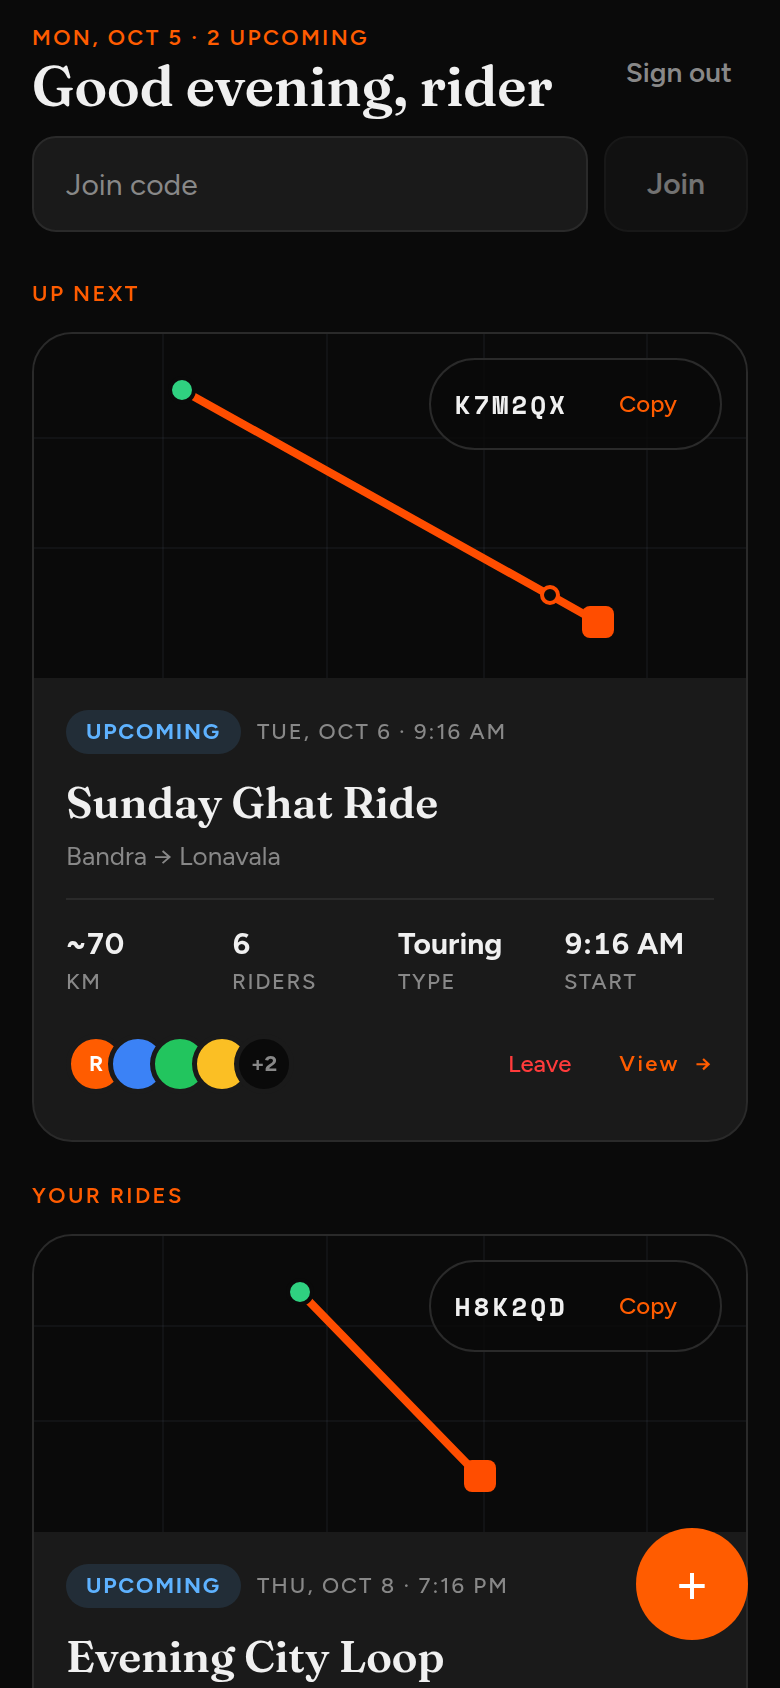
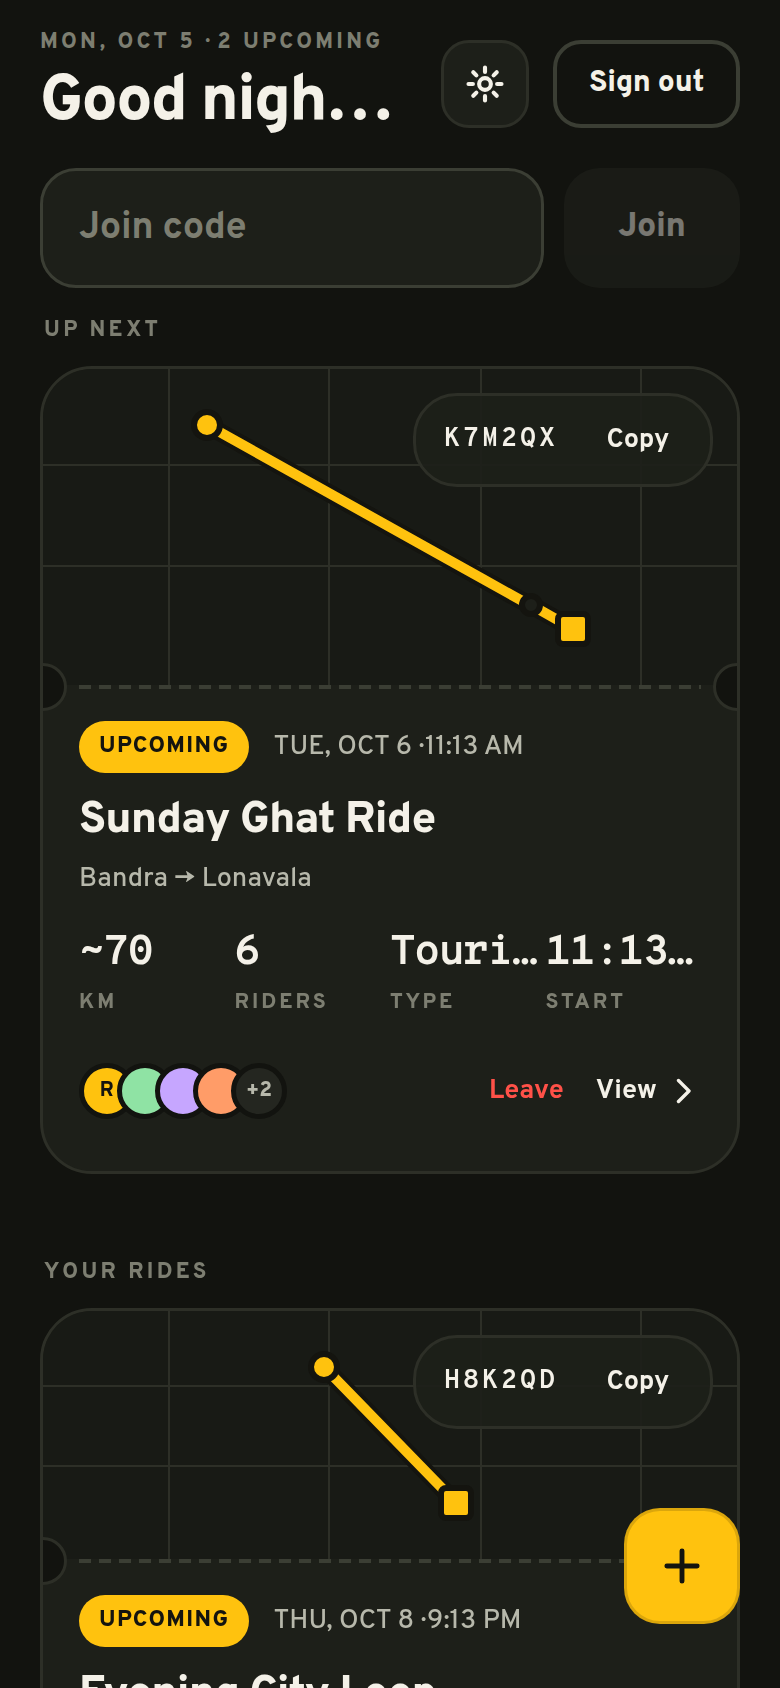
docs: regenerate screenshots for the new design, in all four themes
WHAT: the render harness (react-native-web) now takes a theme and mode in the URL, uses
Overpass, stubs react-native-svg and draws the avatar marker; screenshots/ holds every
scene in Demo/dark plus themes/<theme>-<mode>/ for Rides, live ride, route details and
Settings. New scenes: report-hazard sheet and Settings.
WHY: the old images showed the previous design. They are still not device screenshots
(map tiles are a placeholder, data is sample data); the README says exactly what is and
isn't real.

diff --git a/app/scripts/screenshots/scenes.tsx b/app/scripts/screenshots/scenes.tsx
@@ -35,7 +35,12 @@ import FamilyScreen from '@app/screens/FamilyScreen';
 import MapScreen from '@app/screens/map/MapScreen';
 import CreateRideModal from '@app/components/CreateRideModal';
 import SosModal from '@app/components/SosModal';
-import SignalMenu from '@app/components/SignalMenu';
+import SignalSheet from '@app/components/SignalSheet';
+import HazardSheet from '@app/components/HazardSheet';
+import RouteSheet from '@app/components/RouteSheet';
+import SettingsScreen from '@app/screens/SettingsScreen';
+import { ThemeContext, buildTheme, useTheme } from '@app/theme/ThemeProvider';
+import { THEMES, ThemeId, Scheme } from '@app/theme/palettes';
 import ToastContainer from '@app/components/ToastContainer';
 import { MainTabBar } from '@app/navigation/MainTabNavigator';
 
@@ -73,16 +78,17 @@ function seedRide() {
     currentLocation: loc, lastValidLocation: loc,
   });
   const mk = (id: string, lat: number, lng: number) => ({ rider_id: id, group_id: 'g1', timestamp_hlc: `${Date.now()}:0`, lat, lng, speed_mps: 11, heading_deg: 90, spoof_flag: false, nis_score: 0.5, accuracy_m: 8 });
-  ['u2', 'u3', 'u4'].forEach((id, i) => useRidersStore.getState().upsertRider(mk(id, 19.0 - i * 0.01, 72.9 + i * 0.01)));
+  [0.0009, -0.002, 0.0034].forEach((d, i) => useRidersStore.getState().upsertRider(mk(`u${i + 2}`, 19.0 + d, 72.9)));
 }
 
 const ROUTE = { route_id: 'r1', path_points: [[19.0596, 72.8295], [19.0, 72.9], [18.9, 73.1], [18.79, 73.34], [18.7546, 73.4062]], distance_km: 84.2, eta_minutes: 107, safety_score: 0.82, recalculated_at_hlc: '1:0' };
 // In the app the routing server answers; in this harness there is none, so apply its reply.
 const reseedRoute = () => setTimeout(() => useRouteStore.setState({ route: ROUTE }), 700);
 const nav = { navigate() {}, goBack() {}, replace() {}, reset() {}, getParent: () => ({ goBack() {} }) };
-const Frame = ({ children, bg = '#0A0A0A', height = 844 }: any) => (
-  <View style={{ width: 390, height, backgroundColor: bg, overflow: 'hidden' }}>{children}</View>
-);
+const Frame = ({ children, bg, height = 844 }: any) => {
+  const { colors } = useTheme();
+  return <View style={{ width: 390, height, backgroundColor: bg ?? colors.bg, overflow: 'hidden' }}>{children}</View>;
+};
 // A tab screen laid out like the navigator does: content above, bar below (not overlapping).
 const TabScreen = ({ children, idx }: any) => (
   <Frame><View style={{ flex: 1 }}>{children}</View><MainTabBar {...tabState(idx)} /></Frame>
@@ -115,12 +121,21 @@ const scenes: Record<string, () => React.ReactElement> = {
   history: () => { seedRide(); return <TabScreen idx={5}><HistoryScreen navigation={nav} /></TabScreen>; },
   voice: () => { seedRide(); return <TabScreen idx={2}><VoiceScreen /></TabScreen>; },
   family: () => { seedRide(); return <TabScreen idx={3}><FamilyScreen /></TabScreen>; },
-  map: () => { seedRide(); reseedRoute(); return <Frame><MapScreen navigation={nav} /></Frame>; },
-  'map-expanded': () => { seedRide(); reseedRoute(); click('[aria-label="Expand ride details"]', 900); return <Frame><MapScreen navigation={nav} /></Frame>; },
-  sos: () => { seedRide(); return <Frame bg="#0b0f14"><SosModal visible riderId="u1" groupId="g1" riderCount={4} location={{ lat: 19, lng: 72.9 }} onCancel={() => {}} onSent={() => {}} /></Frame>; },
-  signals: () => { seedRide(); return <Frame bg="#0b0f14"><SignalMenu visible groupId="g1" riderId="u1" onSend={() => {}} /></Frame>; },
+  // The live screen sits above the tab bar, like in the app.
+  map: () => { seedRide(); reseedRoute(); return <TabScreen idx={0}><MapScreen navigation={nav} /></TabScreen>; },
+  'map-expanded': () => { seedRide(); reseedRoute(); click('[aria-label="Route details"]', 900); return <TabScreen idx={0}><MapScreen navigation={nav} /></TabScreen>; },
+  hazards: () => { seedRide(); reseedRoute(); click('[aria-label="Report a hazard"]', 900); return <TabScreen idx={0}><MapScreen navigation={nav} /></TabScreen>; },
+  settings: () => <Frame><SettingsScreen navigation={nav} /></Frame>,
+  sos: () => { seedRide(); return <Frame><SosModal visible riderId="u1" groupId="g1" riderCount={4} location={{ lat: 19, lng: 72.9 }} onCancel={() => {}} onSent={() => {}} /></Frame>; },
+  signals: () => { seedRide(); reseedRoute(); click('[aria-label="Send a quick signal"]', 900); return <TabScreen idx={0}><MapScreen navigation={nav} /></TabScreen>; },
   tabbar: () => <Frame><View style={{ position: 'absolute', bottom: 0, left: 0, right: 0 }}><MainTabBar {...tabState(0)} /></View></Frame>,
 };
 
-const name = (location.hash || '#login').slice(1);
-createRoot(document.getElementById('root')!).render((scenes[name] ?? scenes.login)());
+// #scene[:theme[:scheme]]  e.g. #map:ember:light
+const [name, themeArg = 'demo', schemeArg = 'dark'] = (location.hash || '#login').slice(1).split(':');
+const themeId = (themeArg === 'ember' ? 'ember' : 'demo') as ThemeId;
+const scheme = (schemeArg === 'light' ? 'light' : 'dark') as Scheme;
+document.body.style.background = THEMES[themeId][scheme].bg;
+createRoot(document.getElementById('root')!).render(
+  <ThemeContext.Provider value={buildTheme(themeId, THEMES[themeId][scheme])}>{(scenes[name] ?? scenes.login)()}</ThemeContext.Provider>,
+);

diff --git a/app/scripts/screenshots/stubs/mapbox.js b/app/scripts/screenshots/stubs/mapbox.js
@@ -1,13 +1,22 @@
 import React from 'react';
 import { View } from 'react-native';
-// Browser stand-in: Mapbox tiles cannot render here, so the map is a dark placeholder with a faint grid.
-const grid = { position: 'absolute', backgroundColor: 'rgba(148,178,208,0.05)' };
-const MapView = ({ style, children }) => React.createElement(View, { style: [style, { backgroundColor: '#0b0f14', overflow: 'hidden' }] },
-  [14, 30, 47, 63, 80].map((x) => React.createElement(View, { key: 'v' + x, style: [grid, { left: x + '%', top: 0, bottom: 0, width: 1 }] })),
-  [18, 38, 58, 78].map((y) => React.createElement(View, { key: 'h' + y, style: [grid, { top: y + '%', left: 0, right: 0, height: 1 }] })),
-  children);
+// Browser stand-in: Mapbox tiles cannot render here, so the map is a flat placeholder (dark or light
+// by styleURL) with a faint grid, and a sample road. Markers are drawn where their coordinate falls
+// in a fixed window around the ride so the avatar and its label can be seen.
+const MapCtx = React.createContext('dark');
+const MapView = ({ style, children, styleURL }) => {
+  const light = styleURL === 'light';
+  const grid = { position: 'absolute', backgroundColor: light ? 'rgba(20,20,20,0.06)' : 'rgba(148,178,208,0.05)' };
+  return React.createElement(MapCtx.Provider, { value: styleURL },
+    React.createElement(View, { style: [style, { backgroundColor: light ? '#E6E2D6' : '#0b0f14', overflow: 'hidden' }] },
+      [14, 30, 47, 63, 80].map((x) => React.createElement(View, { key: 'v' + x, style: [grid, { left: x + '%', top: 0, bottom: 0, width: 1 }] })),
+      [18, 38, 58, 78].map((y) => React.createElement(View, { key: 'h' + y, style: [grid, { top: y + '%', left: 0, right: 0, height: 1 }] })),
+      children));
+};
 const Null = () => null;
-const M = { MapView, Camera: Null, UserLocation: Null, ShapeSource: Null, LineLayer: Null, CircleLayer: Null, SymbolLayer: Null, MarkerView: Null, PointAnnotation: Null,
-  UserTrackingMode: { Follow: 'normal', FollowWithHeading: 'compass', FollowWithCourse: 'course' }, StyleURL: { Dark: 'dark' }, setAccessToken: () => {} };
+// Fixed screen spot for the single marker we draw (the rider's own avatar).
+const MarkerView = ({ children }) => React.createElement(View, { style: { position: 'absolute', left: '50%', top: '42%', marginLeft: -91, marginTop: -23 } }, children);
+const M = { MapView, Camera: Null, UserLocation: Null, ShapeSource: Null, LineLayer: Null, CircleLayer: Null, SymbolLayer: Null, MarkerView, PointAnnotation: Null,
+  UserTrackingMode: { Follow: 'normal', FollowWithHeading: 'compass', FollowWithCourse: 'course' }, StyleURL: { Dark: 'dark', Light: 'light' }, setAccessToken: () => {} };
 export default M;
 export const { UserTrackingMode, StyleURL, setAccessToken } = M;

diff --git a/app/scripts/screenshots/index.html b/app/scripts/screenshots/index.html
@@ -1,10 +1,9 @@
 <!doctype html><html><head><meta charset="utf-8"><meta name="viewport" content="width=390">
 <style>
-@font-face{font-family:'Fraunces-SemiBold';src:url('../../assets/fonts/Fraunces-SemiBold.ttf')}
-@font-face{font-family:'Figtree-Regular';src:url('../../assets/fonts/Figtree-Regular.ttf')}
-@font-face{font-family:'Figtree-Medium';src:url('../../assets/fonts/Figtree-Medium.ttf')}
-@font-face{font-family:'Figtree-SemiBold';src:url('../../assets/fonts/Figtree-SemiBold.ttf')}
-@font-face{font-family:'Figtree-Bold';src:url('../../assets/fonts/Figtree-Bold.ttf')}
-@font-face{font-family:'SpaceMono-Bold';src:url('../../assets/fonts/SpaceMono-Bold.ttf')}
-html,body{margin:0;background:#0A0A0A;-webkit-font-smoothing:antialiased}
+@font-face{font-family:'Overpass-Medium';src:url('../../assets/fonts/Overpass-Medium.ttf')}
+@font-face{font-family:'Overpass-Bold';src:url('../../assets/fonts/Overpass-Bold.ttf')}
+@font-face{font-family:'Overpass-ExtraBold';src:url('../../assets/fonts/Overpass-ExtraBold.ttf')}
+@font-face{font-family:'Overpass-Black';src:url('../../assets/fonts/Overpass-Black.ttf')}
+@font-face{font-family:'OverpassMono-Bold';src:url('../../assets/fonts/OverpassMono-Bold.ttf')}
+html,body{margin:0;background:#888;-webkit-font-smoothing:antialiased}
 </style></head><body><div id="root"></div><script src="scenes.js"></script></body></html>

diff --git a/app/scripts/screenshots/stubs/svg.js b/app/scripts/screenshots/stubs/svg.js
@@ -1,0 +1,8 @@
+import React from 'react';
+// Browser stand-in for react-native-svg: its props are SVG attributes, so plain DOM <svg> elements do.
+const strip = ({ testID, accessibilityElementsHidden, importantForAccessibility, accessibilityLabel, ...rest }) => rest;
+const el = (tag) => (props) => React.createElement(tag, strip(props));
+const Svg = ({ style, ...p }) => React.createElement('svg', { ...strip(p), style });
+export default Svg;
+export const Path = el('path'), Circle = el('circle'), Ellipse = el('ellipse'), Rect = el('rect'), Line = el('line'),
+  Defs = el('defs'), LinearGradient = el('linearGradient'), Stop = el('stop');

diff --git a/screenshots/README.md b/screenshots/README.md
@@ -1,51 +1,58 @@
 # WeRide — screenshots
 
-How the app looks right now (dark Ember theme), one image per screen/state. Phone-sized (390 × 844 pt) at 2×.
+How the app looks right now, one image per screen/state. Phone-sized (390 × 844 pt) at 2×.
+The main set is the **Demo theme, dark**. `themes/` shows the key screens in all four
+theme × mode combinations: the layout is identical in each, only the colours change.
 
 | | Screen | |
 |---|---|---|
-| `01-sign-in.png` | Sign in | brand logo, validated fields |
+| `01-sign-in.png` | Sign in | the real logo, validated fields |
 | `02-create-account.png` | Create account | confirm-password field enters when switching |
-| `03-rides.png` | My rides | greeting, join row, **Up next** ride card with route map + join-code pill |
+| `03-rides.png` | My rides | greeting, settings, join row, **Up next** ride pass with route map + join-code pill |
 | `04-rides-full-list.png` | My rides (full list) | Up next / Your rides / Earlier sections, rides with and without a plan |
 | `05-rides-empty.png` | My rides, no rides yet | |
 | `06-create-ride.png` | Create ride | start, destination, stops, ride type, start time |
-| `07-live-map.png` | Live map | header, FAB column, collapsed route sheet |
-| `08-live-map-route-details.png` | Live map, route sheet expanded | safety score, avoid-hazards, Google Maps hand-off; FABs ride up with the sheet |
+| `07-live-map.png` | Live ride | status plate, side buttons, **your avatar with the distance to the nearest rider pinned on its right**, speed / ETA, SOS · Signal · Hazard · Talk |
+| `08-live-map-route-details.png` | Live ride, route details sheet | safety score, avoid-hazards, Google Maps hand-off |
 | `09-sos-confirm.png` | SOS confirmation | |
-| `10-quick-signals.png` | Quick signals menu | |
-| `11-road-alerts.png` | Road alerts | report chips, hazard cards |
-| `12-planned-stops.png` | Planned stops | |
-| `13-ride-history.png` | Ride history | |
-| `14-group-voice.png` | Group voice | |
-| `15-family.png` | Family | |
+| `10-quick-signals.png` | Quick signals sheet | |
+| `11-report-hazard.png` | Report a hazard sheet | |
+| `12-road-alerts.png` | Road alerts | report tiles, hazard cards |
+| `13-planned-stops.png` | Planned stops | |
+| `14-ride-history.png` | Ride history | |
+| `15-group-voice.png` | Group voice | |
+| `16-family.png` | Family | |
+| `17-settings-appearance.png` | Settings → Appearance | theme (Demo / Ember) and mode (Light / Dark / System) |
+| `themes/<theme>-<light\|dark>/` | Rides · live ride · route details · settings | `demo-light`, `demo-dark`, `ember-light`, `ember-dark` |
 
 ## What these are — and are not
 
 These are **not device screenshots**. The app's real screens and components (real stores, real
-styles, the bundled Fraunces / Figtree fonts) are rendered in headless Chromium with
-`react-native-web`, and the native-only modules (Firebase, Mapbox, sockets, sensors) are stubbed.
+styles, the bundled Overpass fonts) are rendered in headless Chromium with `react-native-web`,
+and the native-only modules (Firebase, Mapbox, sockets, sensors, react-native-svg) are stubbed.
 So:
 
-- **Layout, type, colour and spacing are the app's own.** Exact native text metrics, shadows and
-  safe areas can differ slightly on a phone.
-- **The map is a dark placeholder with a faint grid** — Mapbox tiles can't render in a browser.
-  The route, pins and your position on the live map are therefore not shown; everything *around*
-  the map (header, buttons, route sheet) is real.
+- **Layout, type, colour and spacing are the app's own.** Exact native text metrics, shadows,
+  `adjustsFontSizeToFit` and safe areas can differ slightly on a phone (for example the Rides
+  greeting shrinks to fit on a phone instead of being cut off, and the active tab's icon sits on
+  top of its accent well natively).
+- **The map is a flat placeholder with a faint grid** — Mapbox tiles can't render in a browser.
+  The route line and rider pins on the live map are therefore not shown, and the avatar is drawn
+  at a fixed spot; everything *around* the map (plate, buttons, label, sheets) is real.
 - **Ride-card thumbnails show the on-device route sketch** (planned waypoints joined by straight
   lines). On a phone with a Mapbox token and a connection, the real Mapbox map of the same points
   fades in over it.
-- **Data is sample data** (rides, hazards, riders) seeded in `app/scripts/screenshots/scenes.tsx`.
-- Animations are shown at their resting state. Touch feedback (press, hover-like card response,
-  haptics) can't be shown in a still image.
+- **Data is sample data** (rides, hazards, riders at ~100 m / ~220 m / ~380 m from you) seeded in
+  `app/scripts/screenshots/scenes.tsx`. The app itself never invents any of it.
+- Animations are shown at their resting state. Touch feedback (press, haptics) can't be shown in a still image.
 
 ## Regenerate
 
 ```
 cd app/scripts/screenshots
-CHROME=/path/to/chromium ./run.sh            # all scenes
-CHROME=/path/to/chromium ./run.sh map alerts  # some scenes
+CHROME=/path/to/chromium ./run.sh
 ```
 
 Needs Node and a Chromium/Chrome binary; `run.sh` installs its own small dependency set
-(`react-native-web`, `esbuild`) inside that folder.
+(`react-native-web`, `esbuild`) inside that folder. Any single scene in any theme can be opened
+by hand: `index.html#map:ember:light` (scene : theme : scheme).
